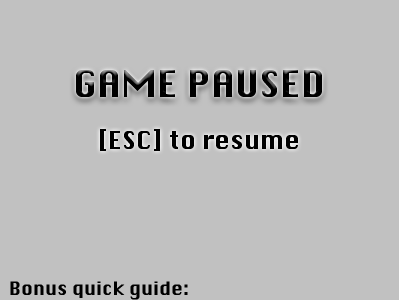
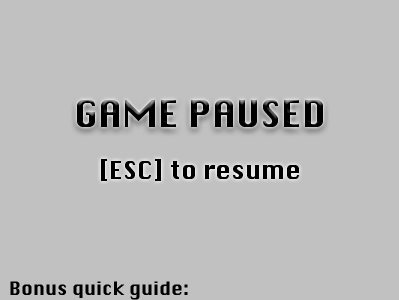
update

Changed region(s): [[0.1805, 0.21, 0.812, 0.6]]

diff --git a/jArk/src/ch/unisi/inf/pfii/teamblue/jark/view/game/GamePanel.java b/jArk/src/ch/unisi/inf/pfii/teamblue/jark/view/game/GamePanel.java
@@ -377,7 +377,8 @@ public final class GamePanel extends JComponent implements Constants,
 			g2d.drawImage(ImagesRepository.getImage("gamepaused"), 399, 0, this);
 			g2d.drawImage(ImagesRepository.getImage("bonushelp"), 399, 300, this);
 			g2d.drawImage(ImagesRepository.getImage("credits"), 0, 300, this);
-
+			g2d.setColor(Color.GRAY);
+			g2d.drawRect(0, 0, 399, 300);
 		}
 	}
 
